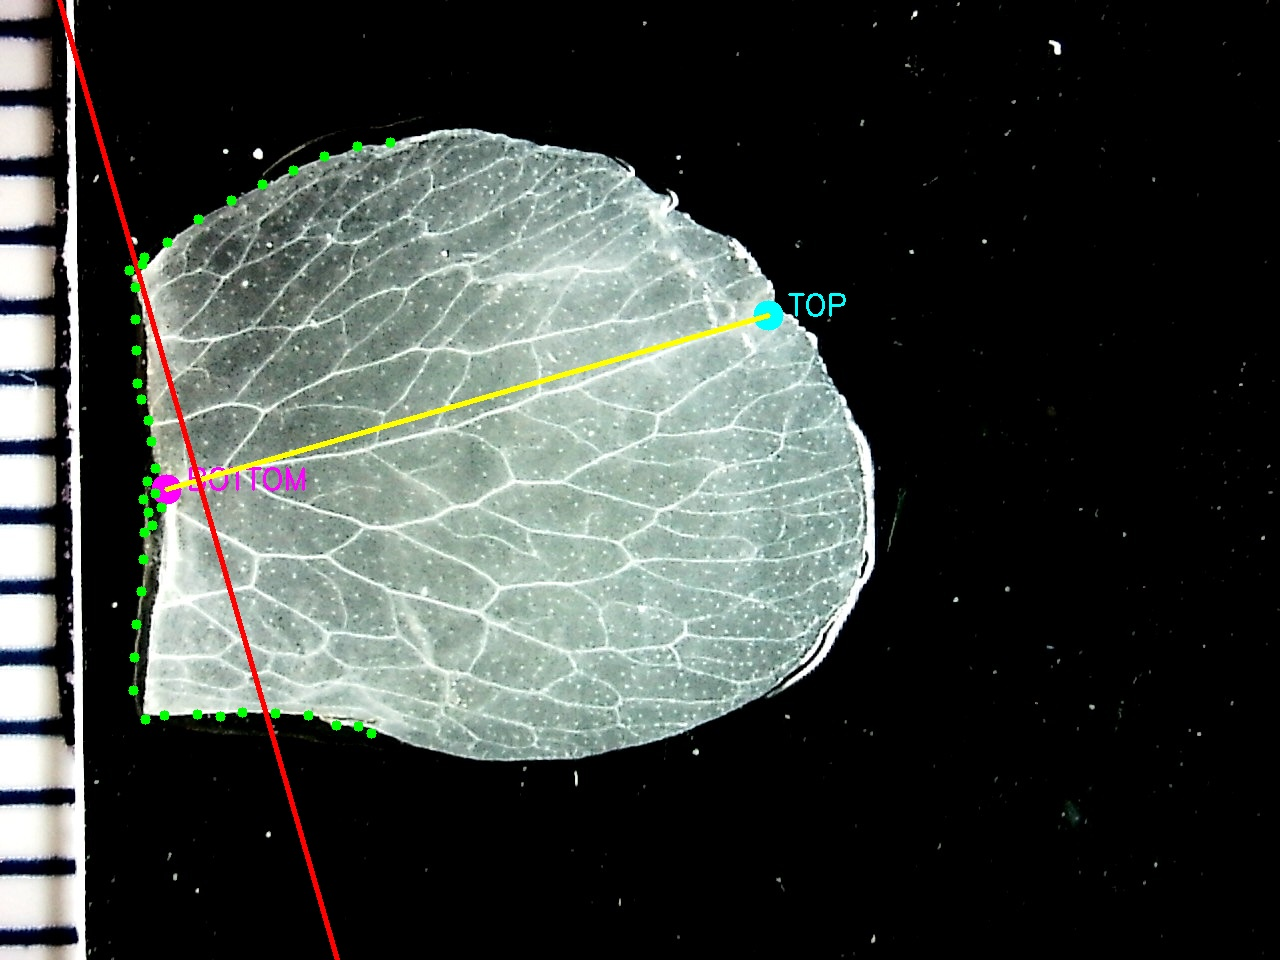
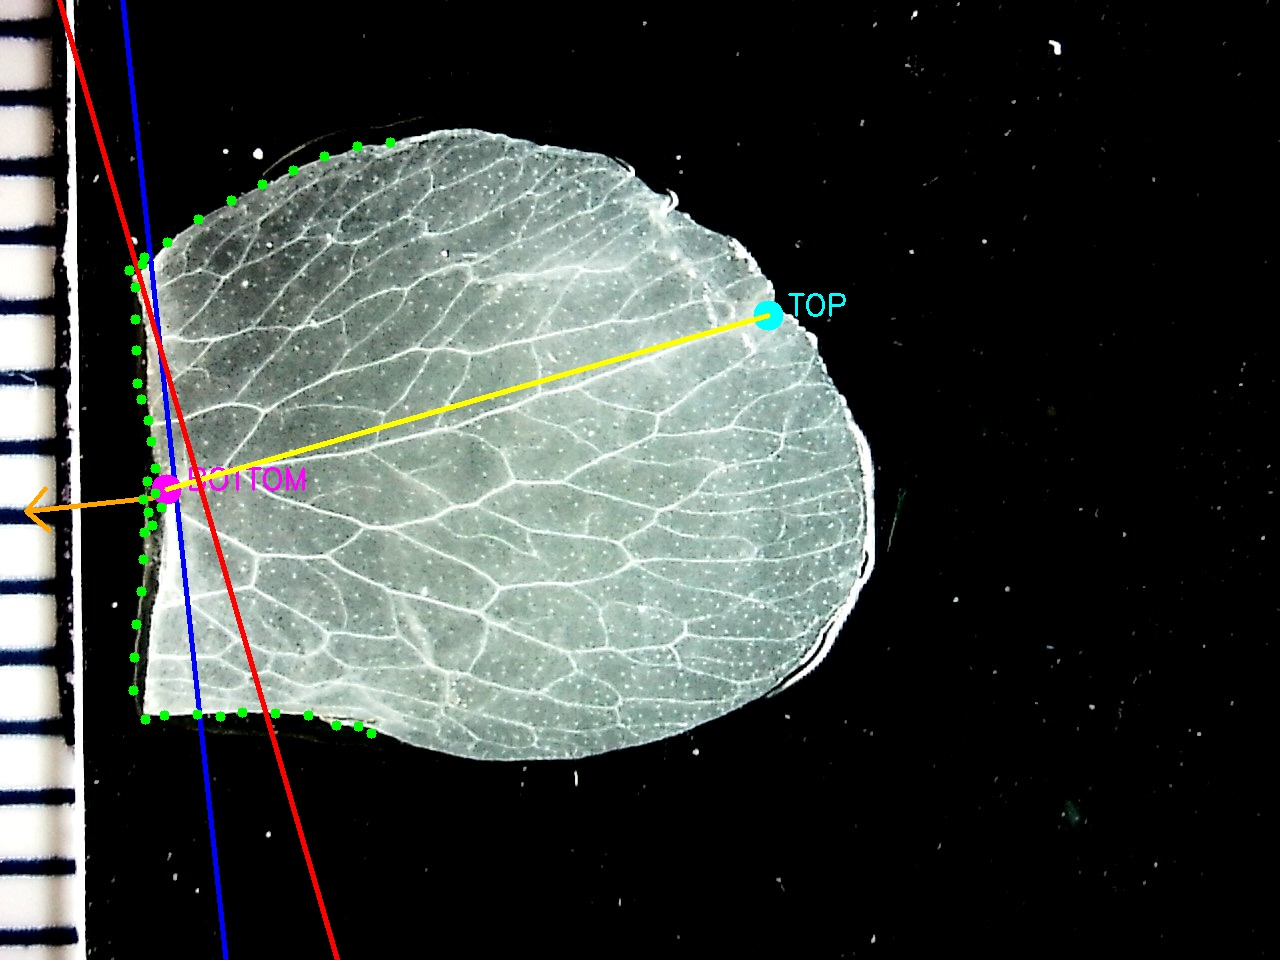
Added Basic Linear Fit Model

diff --git a/src/petals_bottom.py b/src/petals_bottom.py
@@ -6,6 +6,7 @@ Uses JSON keypoints to identify the correct bottom edge.
 import os
 import sys
 import cv2
+from matplotlib import image
 import numpy as np
 import glob
 import json
@@ -228,10 +229,27 @@ def process_all_petals(input_dir, output_dir):
             petal_mask = get_petal_shape_simple(image)
             edge_points, edge_type, bounds = detect_edge_from_keypoints(petal_mask, keypoints)
             straightened, edge_pts, etype, perp_pt1, perp_pt2, vec_dir = straighten_edge(image, petal_mask, edge_points, edge_type, bounds, keypoints)
+
+            line_pt, line_dir, line_normal = fit_bottom_edge_line(edge_points)
+
             
             # Create visualization
             vis_image = image.copy()
             
+            h, w = image.shape[:2]
+            L = max(h, w) * 2
+
+            line_p1 = (line_pt - line_dir * L).astype(int)
+            line_p2 = (line_pt + line_dir * L).astype(int)
+
+            cv2.line(vis_image, tuple(line_p1),tuple(line_p2),(255, 0, 0), 4)
+
+            normal_len = 150
+            normal_end = (line_pt + line_normal * normal_len).astype(int)
+
+            cv2.arrowedLine(vis_image, tuple(line_pt.astype(int)), tuple(normal_end), (0, 165, 255), 4, tipLength=0.2)
+
+
             # Draw keypoints if available
             if keypoints:
                 if 'center_vein_bottom' in keypoints:
@@ -273,6 +291,139 @@ def process_all_petals(input_dir, output_dir):
         except Exception as e:
             import traceback
             traceback.print_exc()
+
+def fit_bottom_edge_line(edge_points, trim_percent=0.15):
+    """
+    Fit a straight line to the bottom edge using total least squares (PCA).
+
+    Returns:
+        line_point: (x, y) point on the fitted line
+        line_dir: normalized direction vector of the line
+        normal: normalized normal vector (points "up" the petal)
+    """
+    if len(edge_points) < 10:
+        raise ValueError("Not enough edge points to fit a line")
+
+    pts = edge_points.astype(np.float32)
+
+    # --- Optional trimming to remove extreme outliers ---
+    # Sort by projection along principal axis later; first rough center
+    center = np.mean(pts, axis=0)
+    dists = np.linalg.norm(pts - center, axis=1)
+
+    lo = np.percentile(dists, trim_percent * 100)
+    hi = np.percentile(dists, (1 - trim_percent) * 100)
+    pts = pts[(dists >= lo) & (dists <= hi)]
+
+    # --- PCA / total least squares ---
+    mean = np.mean(pts, axis=0)
+    pts_centered = pts - mean
+
+    _, _, vt = np.linalg.svd(pts_centered)
+    direction = vt[0]          # principal axis
+    direction /= np.linalg.norm(direction)
+
+    # Normal to the line
+    normal = np.array([-direction[1], direction[0]])
+    normal /= np.linalg.norm(normal)
+
+    return mean, direction, normal
+
+def cut_image_with_line(image, line_point, normal, keep_point):
+    """
+    Cuts the image along a line.
+    keep_point determines which side to keep (e.g. center_vein_top).
+    """
+    h, w = image.shape[:2]
+    result = image.copy()
+
+    keep_side = np.dot(normal, keep_point - line_point)
+
+    for y in range(h):
+        for x in range(w):
+            p = np.array([x, y], dtype=np.float32)
+            side = np.dot(normal, p - line_point)
+
+            if np.sign(side) != np.sign(keep_side):
+                result[y, x] = 0
+
+    return result
+
+def process_petals_linear(input_dir, output_dir):
+    # For each image, detect edge points, fit line, then cut
+    """Process all vein images in the input directory."""
+    os.makedirs(output_dir, exist_ok=True)
+    
+    patterns = ["*.JPG", "*.jpg", "*.png", "*.PNG"]
+    image_files = []
+    for pattern in patterns:
+        image_files.extend(glob.glob(os.path.join(input_dir, pattern)))
+    
+    # Filter for vein images
+    vein_files = [f for f in image_files if 'Vein' in os.path.basename(f) or 'vein' in os.path.basename(f)]
+    
+    if len(vein_files) == 0:
+        return
+    
+    success = 0
+    for i, img_path in enumerate(vein_files):
+        filename = os.path.basename(img_path)
+        
+        try:
+            # Read image
+            image = cv2.imread(img_path)
+            if image is None:
+                continue
+            
+            # Look for corresponding JSON file
+            base_name = os.path.splitext(filename)[0]
+            json_path = os.path.join(input_dir, f"{base_name}_labels.json")
+            
+            keypoints = None
+            if os.path.exists(json_path):
+                keypoints = load_keypoints(json_path)
+            
+            # Process image
+            petal_mask = get_petal_shape_simple(image)
+            edge_points, edge_type, bounds = detect_edge_from_keypoints(petal_mask, keypoints)
+            line_pt, line_dir, normal = fit_bottom_edge_line(edge_points)
+            
+            # Create visualization
+            vis_image = image.copy()
+
+            if keypoints:
+                if 'center_vein_bottom' in keypoints:
+                    cv2.circle(vis_image, keypoints['center_vein_bottom'], 15, (255, 0, 255), -1)  # Magenta
+                    cv2.putText(vis_image, "BOTTOM", 
+                              (keypoints['center_vein_bottom'][0] + 20, keypoints['center_vein_bottom'][1]), 
+                              cv2.FONT_HERSHEY_SIMPLEX, 1.0, (255, 0, 255), 2)
+                if 'center_vein_top' in keypoints:
+                    cv2.circle(vis_image, keypoints['center_vein_top'], 15, (255, 255, 0), -1)  # Cyan
+                    cv2.putText(vis_image, "TOP", 
+                              (keypoints['center_vein_top'][0] + 20, keypoints['center_vein_top'][1]), 
+                              cv2.FONT_HERSHEY_SIMPLEX, 1.0, (255, 255, 0), 2)
+                
+                # Draw line from top to bottom
+                if 'center_vein_top' in keypoints and 'center_vein_bottom' in keypoints:
+                    cv2.line(vis_image, keypoints['center_vein_top'], keypoints['center_vein_bottom'], 
+                            (0, 255, 255), 3)  # Yellow line
+                    
+            h, w = image.shape[:2]
+            L = max(h, w) * 2
+
+            p1 = (line_pt - line_dir * L).astype(int)
+            p2 = (line_pt + line_dir * L).astype(int)
+
+            cv2.line(vis_image, tuple(p1), tuple(p2), (255, 0, 0), 3)
+            keep_pt = np.array(keypoints['center_vein_top'], dtype=np.float32)
+            straightened = cut_image_with_line(image, line_pt, normal, keep_pt)
+
+        except Exception as e:
+            import traceback
+            traceback.print_exc()
+
+
+    pass
 
 
 if __name__ == "__main__":
